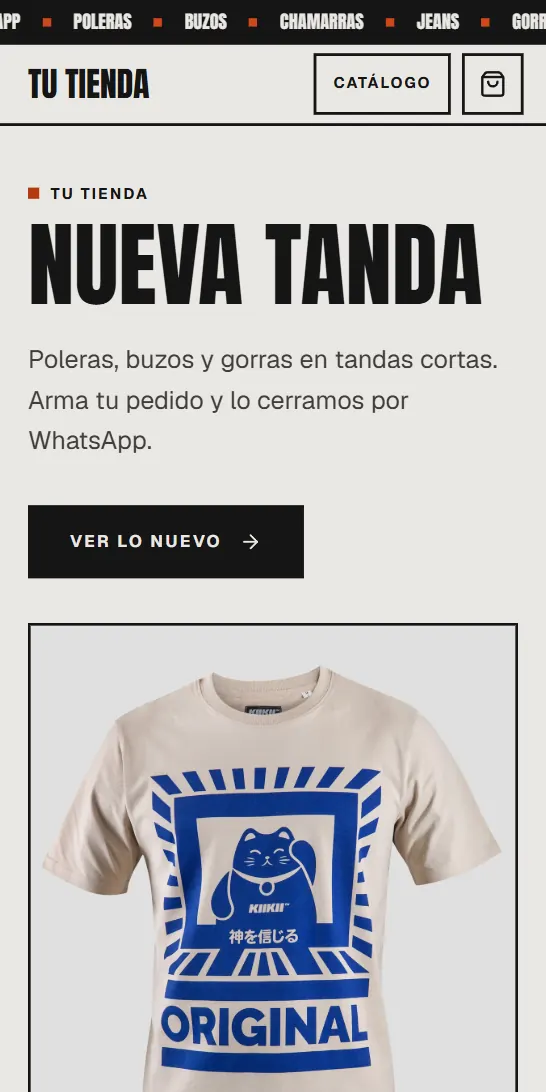
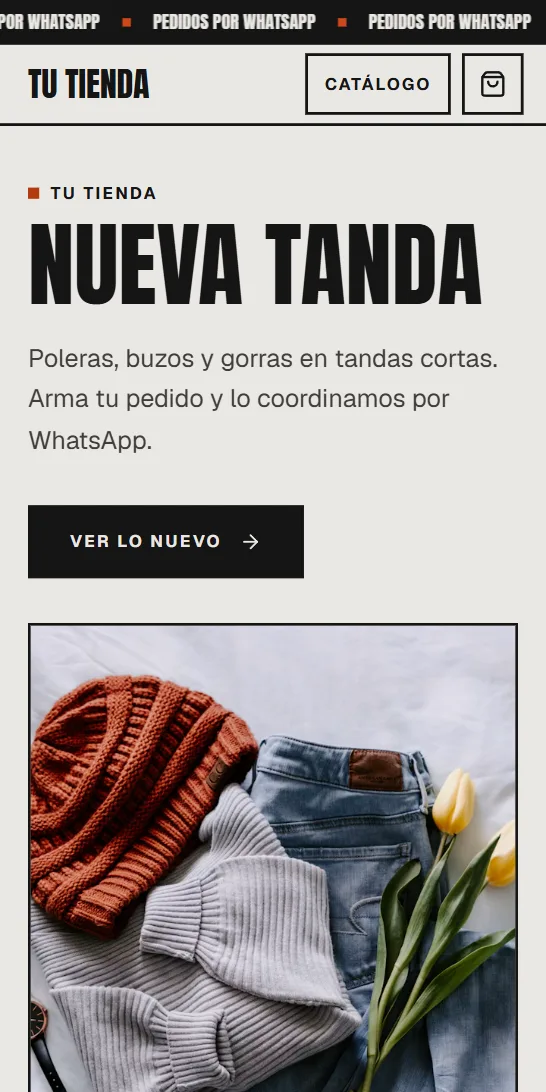
Hojas y confirmaciones en el cuaderno, la pasarela del alta para la app y capturas sin marcas
- Hojas, diálogos y confirmaciones del panel: seguían en el diario, con la
  raya de tinta arriba y esquinas vivas, mientras la app ya los tenía en hoja
  con radio. Ahora van de hoja, con radio y sombra; la hoja de abajo lleva las
  esquinas de arriba redondas y una manija, y la del costado se apoya en el
  borde. Se hace en globals.css sobre los data-slot de los diálogos, así
  alcanza a todos —van en un portal, por eso la marca del cuaderno se busca en
  body— y /admin sigue en el diario.
- /editor/app/alta: la pasarela del alta para la app, con las plantillas en
  el orden de /crear/plantilla y el nombre del negocio adentro de cada
  dibujo. La usa el alta nueva de la app (venduo-app, rama alta-cuaderno).
- La ficha en vitrina (Quilate, Atelier) mostraba cada foto en 190 px en la
  computadora: con más de una foto la galería se abre a 672 px.
- Las capturas de celular de Fórmula y Calle se rehicieron: Fórmula mostraba
  un frasco de una marca real y Calle decía "lo cerramos por WhatsApp". Los
  seis ejemplos de Fórmula en el editor también eran frascos de marca.

Probado contra la base local a 375 y 1280 px: Agregar producto, ¿Pasar a X?,
la confirmación de borrar y la hoja del costado; la ficha de Quilate.

diff --git a/app/editor/app/alta/page.tsx b/app/editor/app/alta/page.tsx
@@ -1,0 +1,67 @@
+import { getPlantillasPorRubro } from "@/lib/data/plantillas"
+import { PLANTILLAS, plantillaDeTienda } from "@/lib/plantillas"
+import { muestraDeTienda } from "@/lib/plantillas/muestra"
+import { PasarelaParaLaApp } from "@/components/panel/pasarela-para-la-app"
+import { Miniatura } from "@/components/plantillas/miniatura"
+
+export const metadata = {
+  title: "Elige tu plantilla",
+  robots: { index: false, follow: false },
+}
+
+export const dynamic = "force-dynamic"
+
+/**
+ * La pasarela del alta, para la app: las plantillas en el mismo orden que
+ * `/crear/plantilla`, cada una con el nombre del negocio adentro. La app la
+ * abre en un WebView con `?nombre=` —lo que se escribió en el paso 1— y, si
+ * eligió un rubro, `?rubro=`; el nombre, las fichas y "Crear mi tienda con X"
+ * los dibuja la app.
+ *
+ * Todavía no hay tienda: no se lee nada de la cuenta, solo el catálogo de
+ * plantillas, que es el mismo para todos.
+ */
+export default async function AltaParaLaAppPage({
+  searchParams,
+}: {
+  searchParams: Promise<{ nombre?: string; rubro?: string }>
+}) {
+  const [{ nombre, rubro }, rubros] = await Promise.all([
+    searchParams,
+    getPlantillasPorRubro(),
+  ])
+  const nombreDelNegocio = (nombre ?? "").trim().slice(0, 60) || "Tu tienda"
+
+  const todas = rubros
+    .filter((r) => !rubro || r.key === rubro)
+    .flatMap((r) => r.plantillas.map((plantilla) => ({ rubro: r, plantilla })))
+
+  return (
+    <PasarelaParaLaApp
+      plantillas={todas.map(({ rubro: r, plantilla }) => ({
+        clave: plantilla.key,
+        nombre: plantilla.name,
+        rubro: r.name,
+        descripcion: plantilla.description,
+        rasgos: PLANTILLAS[plantillaDeTienda(plantilla.key)].rasgos,
+        recomendada: Boolean(plantilla.recomendada),
+        nueva: Boolean(plantilla.nueva),
+      }))}
+      notas={["Con productos de ejemplo."]}
+      miniaturas={todas.map(({ plantilla }) => (
+        <Miniatura
+          key={plantilla.key}
+          clave={plantilla.key}
+          datos={
+            muestraDeTienda(
+              nombreDelNegocio,
+              null,
+              plantillaDeTienda(plantilla.key),
+              []
+            ).muestra
+          }
+        />
+      ))}
+    />
+  )
+}

diff --git a/app/globals.css b/app/globals.css
@@ -641,13 +641,53 @@ body:has([data-registro="cuaderno"]) .pieza-ficha {
   border-radius: 9999px;
 }
 
+/*
+ * Los diálogos, las confirmaciones y las hojas, en el cuaderno: de hoja, con
+ * radio y una sombra, sin la raya de tinta del diario. Van en un portal fuera
+ * del armazón, por eso la marca se busca en `body`; en `/admin` no está y
+ * siguen como el diario.
+ */
 body:has([data-registro="cuaderno"])
-  :is([data-slot="dialog-content"], [data-slot="sheet-content"]) {
+  :is(
+    [data-slot="dialog-content"],
+    [data-slot="alert-dialog-content"],
+    [data-slot="sheet-content"]
+  ) {
+  border-color: rgb(29 28 26 / 0.12);
   background: var(--hoja);
 }
-body:has([data-registro="cuaderno"]) [data-slot="dialog-content"] {
+body:has([data-registro="cuaderno"])
+  :is([data-slot="dialog-content"], [data-slot="alert-dialog-content"]) {
+  overflow: hidden;
+  border-width: 1px;
   border-radius: 22px;
   box-shadow: 0 40px 80px -30px rgb(29 28 26 / 0.45);
+}
+/* La hoja de abajo, como la de la app: esquinas de arriba redondas y una manija. */
+body:has([data-registro="cuaderno"])
+  [data-slot="sheet-content"][data-side="bottom"] {
+  border-width: 1px 1px 0;
+  border-radius: 24px 24px 0 0;
+  box-shadow: 0 -24px 60px -28px rgb(29 28 26 / 0.45);
+}
+body:has([data-registro="cuaderno"])
+  [data-slot="sheet-content"][data-side="bottom"]::before {
+  content: "";
+  position: absolute;
+  top: 8px;
+  left: 50%;
+  width: 40px;
+  height: 4px;
+  border-radius: 9999px;
+  background: rgb(29 28 26 / 0.15);
+  transform: translateX(-50%);
+}
+/* La hoja del costado, en la computadora: apoyada en el borde derecho. */
+body:has([data-registro="cuaderno"])
+  [data-slot="sheet-content"][data-side="right"] {
+  border-width: 0 0 0 1px;
+  border-radius: 24px 0 0 24px;
+  box-shadow: -24px 0 60px -28px rgb(29 28 26 / 0.45);
 }
 
 .sombra-cuaderno {

diff --git a/lib/editor/muestras.ts b/lib/editor/muestras.ts
@@ -266,7 +266,7 @@ const EJEMPLOS: Record<ClavePlantilla, Ejemplo[]> = {
       descripcion: "Oriental, con vainilla y especias. Decant de 10 ml.",
       precio: 9000,
       categoria: "Orientales",
-      foto: foto("1541643600914-78b084683601"),
+      foto: foto("1638295916768-459f6cf440bc"),
       destacado: true,
     },
     {
@@ -275,36 +275,36 @@ const EJEMPLOS: Record<ClavePlantilla, Ejemplo[]> = {
       precio: 42000,
       antes: 48000,
       categoria: "Florales",
-      foto: foto("1594035910387-fea47794261f"),
+      foto: foto("1543422655-ac1c6ca993ed"),
       destacado: true,
     },
     {
-      nombre: "Azul profundo",
-      descripcion: "Amaderado fresco, con cedro y bergamota.",
+      nombre: "Cedro y bergamota",
+      descripcion: "Amaderado fresco, de salida cítrica. Frasco de 50 ml.",
       precio: 38000,
       categoria: "Amaderados",
-      foto: foto("1523293182086-7651a899d37f"),
+      foto: foto("1718466044521-d38654f3ba0a"),
     },
     {
       nombre: "Verde menta",
       descripcion: "Aromático y fresco, de salida cítrica.",
       precio: 36000,
       categoria: "Cítricos",
-      foto: foto("1587017539504-67cfbddac569"),
+      foto: foto("1594125311687-3b1b3eafa9f4"),
     },
     {
       nombre: "Juego de decants",
       descripcion: "Cinco aromas de 5 ml para probar antes del frasco.",
       precio: 15000,
       categoria: "Decants",
-      foto: foto("1615634260167-c8cdede054de"),
+      foto: foto("1571206508927-2ef3026ada5d"),
     },
     {
       nombre: "Flor de durazno",
       descripcion: "Floral suave, para todos los días. Frasco de 100 ml.",
       precio: 44000,
       categoria: "Florales",
-      foto: foto("1592945403244-b3fbafd7f539"),
+      foto: foto("1615634260830-85d92cd1b769"),
     },
   ],
   bazar: [

diff --git a/components/plantillas/comunes/paginas.tsx b/components/plantillas/comunes/paginas.tsx
@@ -243,7 +243,17 @@ export function paginasDeKit(
               : "grid gap-8 md:grid-cols-[1.25fr_1fr] md:gap-12"
           )}
         >
-          <div className={cn(vitrina && "w-full max-w-sm px-5 md:px-0")}>
+          {/* En vitrina la foto manda: en la computadora, con más de una
+              foto en dos columnas, cada una quedaba en 190 px. */}
+          <div
+            className={cn(
+              vitrina &&
+                cn(
+                  "w-full max-w-sm px-5 md:px-0",
+                  imagenes.length > 1 ? "md:max-w-2xl" : "md:max-w-md"
+                )
+            )}
+          >
             <Galeria
               imagenes={imagenes}
               nombre={producto.name}

diff --git a/docs/estado-del-proyecto.md b/docs/estado-del-proyecto.md
@@ -457,11 +457,11 @@ borrar la cuenta están publicados. Falta lo que es de quien publica: las cuenta
 Firebase y Play Console, y probarla en un teléfono de verdad. La lista está en
 **`docs/plan-app-movil.md`**, "Lo que falta". iPhone viene después.
 
-### 1.b. Capturas de la portada
+### 1.b. Capturas de la portada — hecho (14 de noviembre)
 
-El color, Catálogos y el Inicio en escenas ya están en la app (noviembre). Quedan de la
-portada nueva: reemplazar la captura de la plantilla Fórmula, que muestra un frasco de
-una marca real, y la de Calle, que dice "lo cerramos por WhatsApp".
+Las capturas de celular de Fórmula y Calle se rehicieron: Fórmula ya no muestra un frasco
+de una marca real (sus ejemplos del editor tampoco) y Calle dice "lo coordinamos por
+WhatsApp".
 
 ### 1.c. Pasar las pantallas de trabajo al cuaderno — decidido el 7 de noviembre
 
@@ -597,9 +597,18 @@ Para rediseñar o revisar:
       plantilla en la pasarela de Apariencia con el nombre adentro, y el final en una
       escena con la tienda en vivo en el celular del Resumen. El ingreso, con el mismo
       marco y una línea de texto.
-- [ ] **Hojas y confirmaciones de la web, todavía en el diario**: "Agregar producto" de
-      Nueva venta, "¿Marcar pagado el pedido?" y "¿Pasar a X?" de Apariencia llevan la
-      raya de tinta arriba y esquinas vivas; la app ya las tiene en hoja con radio.
+      **En la app** (14 de noviembre, rama `alta-cuaderno` de `venduo-app`): el ingreso
+      con el titular corto y las pestañas en píldora, y el alta en tres pasos —el
+      negocio, la plantilla en la pasarela de Apariencia con el nombre adentro
+      (`/editor/app/alta`) y la tienda en línea—. Probado en el emulador contra la base
+      local: una cuenta nueva crea su tienda con Crayón y entra al editor o al Inicio.
+- [x] **Hojas y confirmaciones de la web, en el cuaderno** (14 de noviembre): las hojas
+      de abajo con las esquinas de arriba redondas y una manija, la del costado apoyada
+      en el borde, los diálogos y las confirmaciones como tarjetas de hoja con sombra.
+      Se hizo en `app/globals.css`, sobre los `data-slot` de los diálogos: alcanza a
+      todas y `/admin` sigue en el diario.
+- [x] **La ficha en vitrina** (Quilate, Atelier) mostraba las fotos de 190 px en la
+      computadora; ahora la galería se abre a 672 px con más de una foto.
 - [ ] **El PDF del catálogo en el celular** no se pudo ver en el navegador automático (el
       servidor lo arma: `POST /panel/catalogos/pdf` 200). Probarlo en un teléfono.
 

diff --git a/.agents/rules/architecture.md b/.agents/rules/architecture.md
@@ -35,6 +35,7 @@ cliente viaja al navegador. Ponerla lo más abajo posible del árbol.
 | `/editor/app/catalogo`                    | El editor de catálogos para la app. `?id=` uno guardado            |
 | `/editor/app/catalogo/plantillas`         | Las plantillas de la lista de catálogos, para la app               | Token de la app |
 | `/editor/app/apariencia`                  | La pasarela de plantillas con la tienda, para la app               | Token de la app |
+| `/editor/app/alta`                        | La pasarela del alta, con el nombre del negocio, para la app       | Token de la app |
 | `/panel`                                  | Resumen del emprendedor                                            | Requiere sesión |
 | `/panel/{seccion}`                        | Productos, pedidos, estadísticas, marketing                        | Requiere sesión |
 | `/panel/marketing`                        | Publicar en redes: imagen y texto. `?producto=` elegido            | Requiere sesión |
